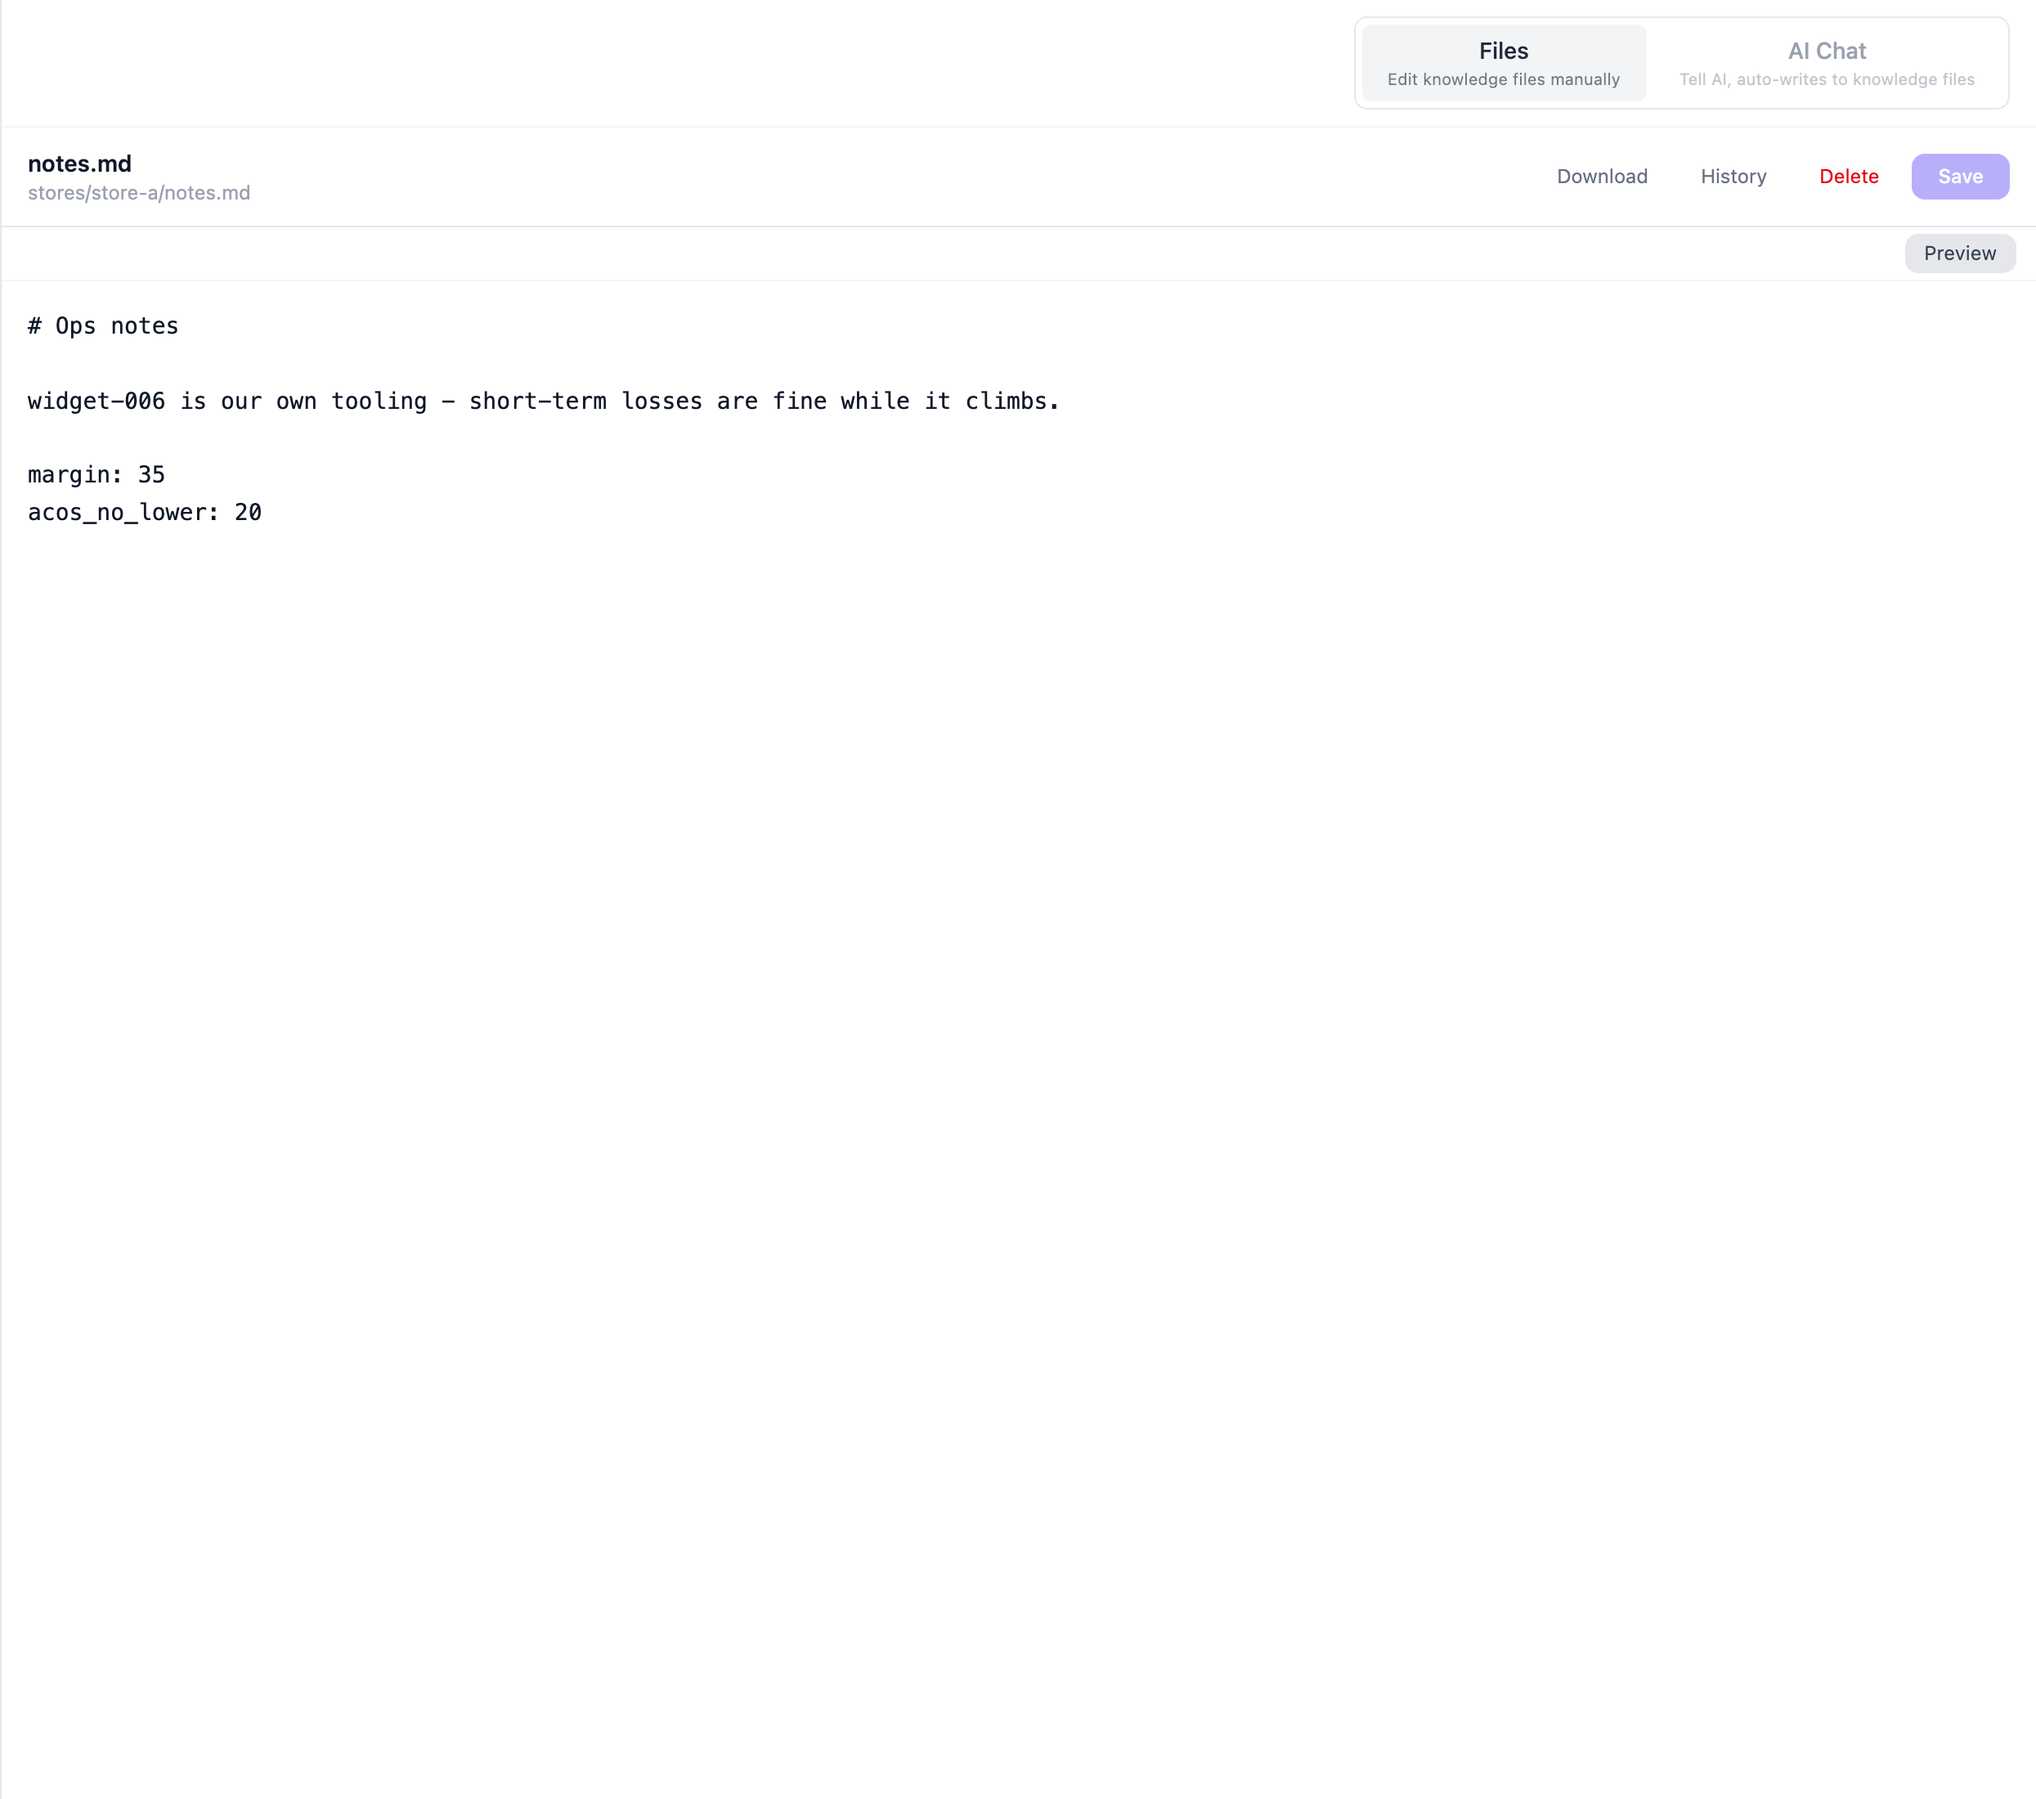
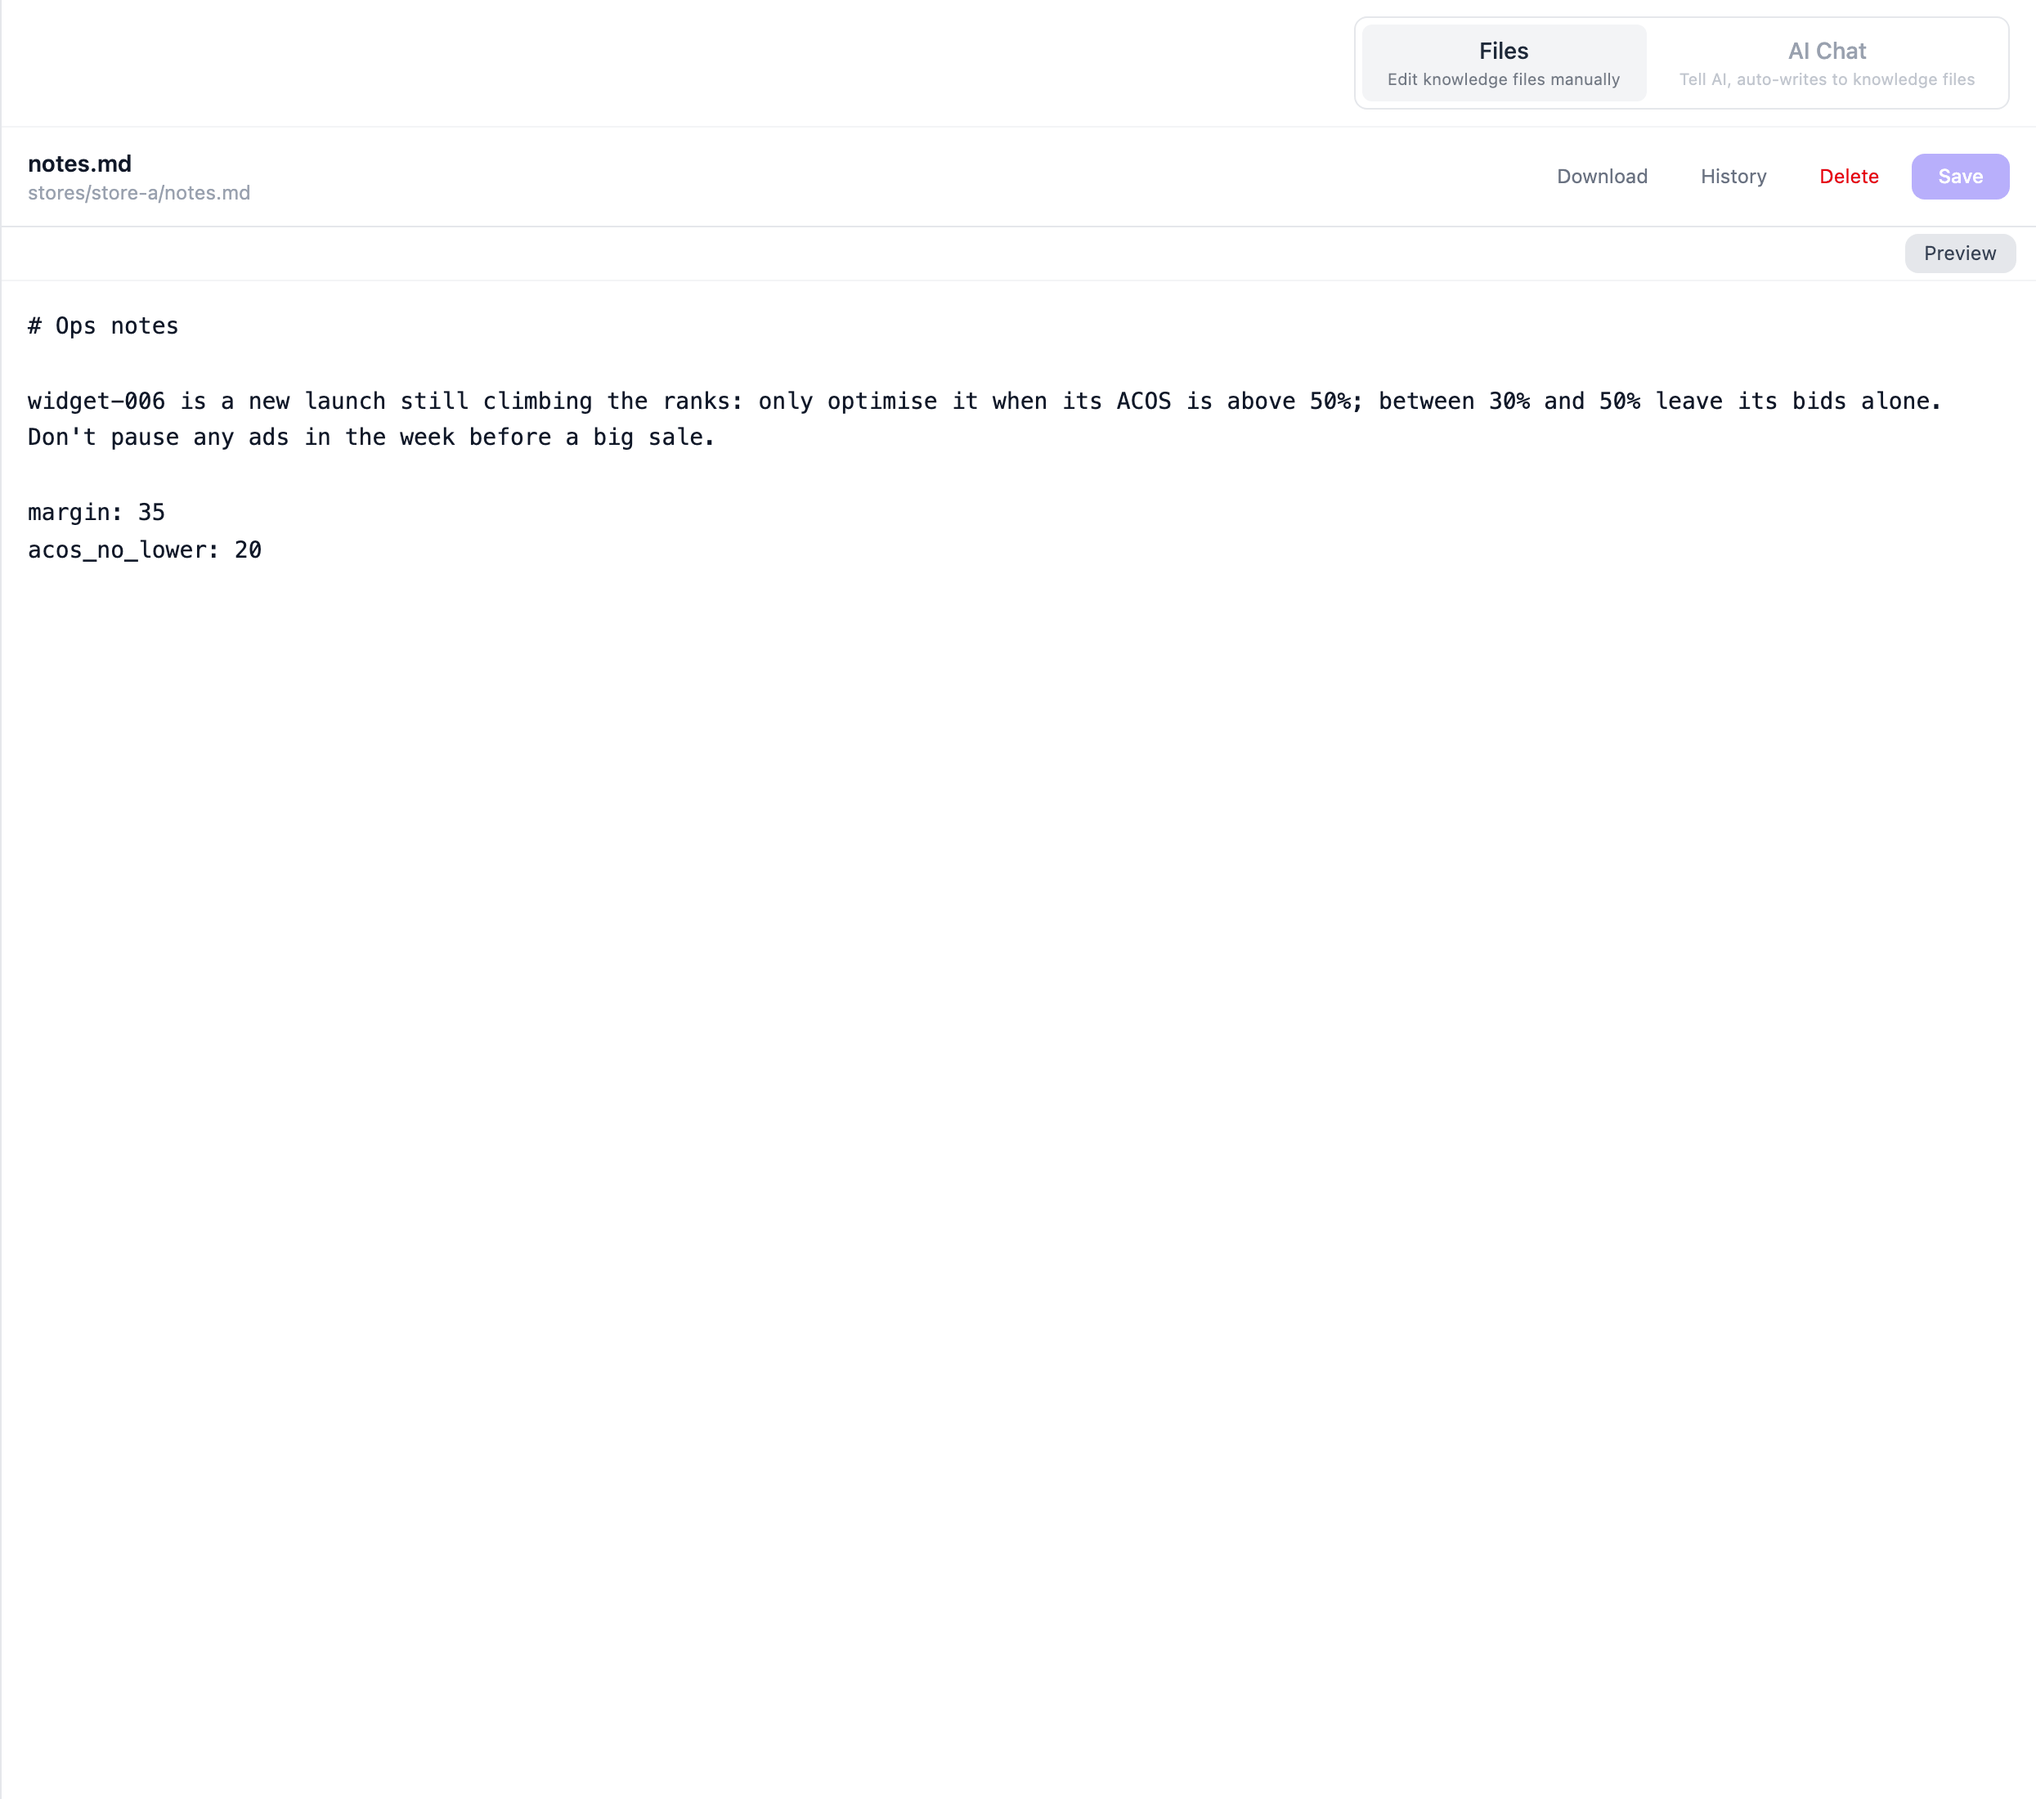
docs(example-ads): store notes take plain-language rules too
`stores/<slug>/notes.md` is not only the place for the checked `key: value`
overrides — it is the store's note to the AI, and every task on that store is
told to read it before it starts (app/task_runner_context.py:173-180, both
browser backends). Section 3 now says that first, with a real example sentence
(a new launch that may run hot, no pausing before a big sale), and keeps the
overrides table as the file's second use. The task description still wins.

Reshoot example-ads-notes_{zh,en} from the same text, so the image shows the
rule line above the two overrides; the driver asserts both are in the editor's
value, that the overrides sit on their own lines, and that the pane is not
scrolled.

Claude-Session: https://claude.ai/code/session_01LKJmNmxHT6ewWC3DDvU5Xa

diff --git a/docs/example-ads-acos.en.md b/docs/example-ads-acos.en.md
@@ -66,25 +66,31 @@ It starts by reading the store's ad data: over the API when the store is
 authorized, through the store's browser when it isn't. The analysis window is the
 last 30 days by default, and the window you write in the description wins.
 
-## 3. When one store should live by different numbers
+## 3. Write the store's rules into its notes
 
-The 30% in the description governs this task only. Some thresholds are checked by
-the server per store, and to change those for good, open this store's `notes.md`
-under **Knowledge** and add one `key: value` per line:
+The 30% in the description governs this task only; what the store lives by for
+good goes in its `notes.md` — **Knowledge** → pick the store → `notes.md`. **This
+is your note to the AI**: every task on this store reads it before it starts and
+then follows it.
 
-![The store's notes.md: margin and acos_no_lower, one per line](images/example-ads-notes_en.png)
+Write anything, in plain language: which SKU is a new launch, what ACOS it takes
+before it needs touching, what not to do in the week before a big sale. The AI
+reads and applies it as part of its own judgement — there's no format to fit.
 
-The two you'll use most:
+![The store's notes.md: one rule about a new launch, plus margin and acos_no_lower](images/example-ads-notes_en.png)
+
+The same file has a second use: a few `key: value` lines that override the
+built-in defaults the server checks per store. The two you'll use most:
 
 | Key | Default | What it governs |
 |---|---|---|
 | `acos_no_lower` | 25 | don't propose bid cuts on rows whose ACOS is under this |
 | `margin` | 25 | your store's margin; the AI derives target ACOS and cut-off lines from it |
 
-It has to be the store's **top-level `notes.md`**, one entry per line — a key
-buried in a sentence doesn't count. All keys and their rules:
+Those lines have to be in the store's **top-level `notes.md`**, one entry per
+line — a key buried in a sentence doesn't count. All keys and their rules:
 [Store notes and parameter overrides](knowledge.md#store-notes-and-parameter-overrides).
-Whatever you write in the task description always outranks these defaults.
+Where the notes and this task's description disagree, the description wins.
 
 ## What you get when it finishes
 

diff --git a/docs/example-ads-acos.md b/docs/example-ads-acos.md
@@ -53,13 +53,18 @@ description: "示例：在店铺里建一个一次性任务，分析这家店过
 它会先读这家店的广告数据：授权过的走接口，没授权的用店铺浏览器进广告后台读。
 默认按最近 30 天算，你在描述里写的窗口优先。
 
-## 3. 想让这家店长期按别的口径来
+## 3. 把这家店的规矩写进笔记，长期生效
 
-描述里的 30% 只管这一次任务。有些阈值是服务器按店铺校验的默认值，想长期改掉，
-在「知识库」里打开这家店的 `notes.md`，一行一个 `键: 值`：
+描述里的 30% 只管这一次任务；这家店的长期规矩写在它的 `notes.md` 里——「知识库」→
+选中这家店 → `notes.md`。**这是你写给 AI 的笔记**：这家店的每个任务开工前都会先读
+一遍，然后照着做。
 
-![店铺 notes.md：margin 与 acos_no_lower 各占一行](images/example-ads-notes_zh.png)
+想写什么就写什么，大白话说清楚就行：哪个 SKU 是新品、ACOS 到多少才需要动、大促前
+哪些操作不要碰。AI 能读懂并用在它自己的判断里，不需要按固定格式写。
 
+![店铺 notes.md：一句新品规则 + margin 与 acos_no_lower](images/example-ads-notes_zh.png)
+
+同一份文件还有第二种用法：几行 `键: 值`，用来覆盖服务器按店校验的内置默认值。
 常用的两个：
 
 | 键 | 默认 | 管什么 |
@@ -67,9 +72,9 @@ description: "示例：在店铺里建一个一次性任务，分析这家店过
 | `acos_no_lower` | 25 | ACOS 低于这个数的词，不建议降竞价 |
 | `margin` | 25 | 你店的毛利，AI 用它推目标 ACOS 和止损线 |
 
-必须是店铺根目录的 `notes.md`，一行一条；写在句子中间不算。全部键和取值规则见
-[店铺笔记与参数覆盖](knowledge.md#店铺笔记与参数覆盖)。你在任务描述里写的标准，
-永远优先于这些默认值。
+`键: 值` 必须是店铺根目录的 `notes.md`，一行一条；写在句子中间不算。全部键和取值
+规则见[店铺笔记与参数覆盖](knowledge.md#店铺笔记与参数覆盖)。笔记和你这次的任务
+描述不一致时，以描述为准。
 
 ## 跑完你会看到
 
